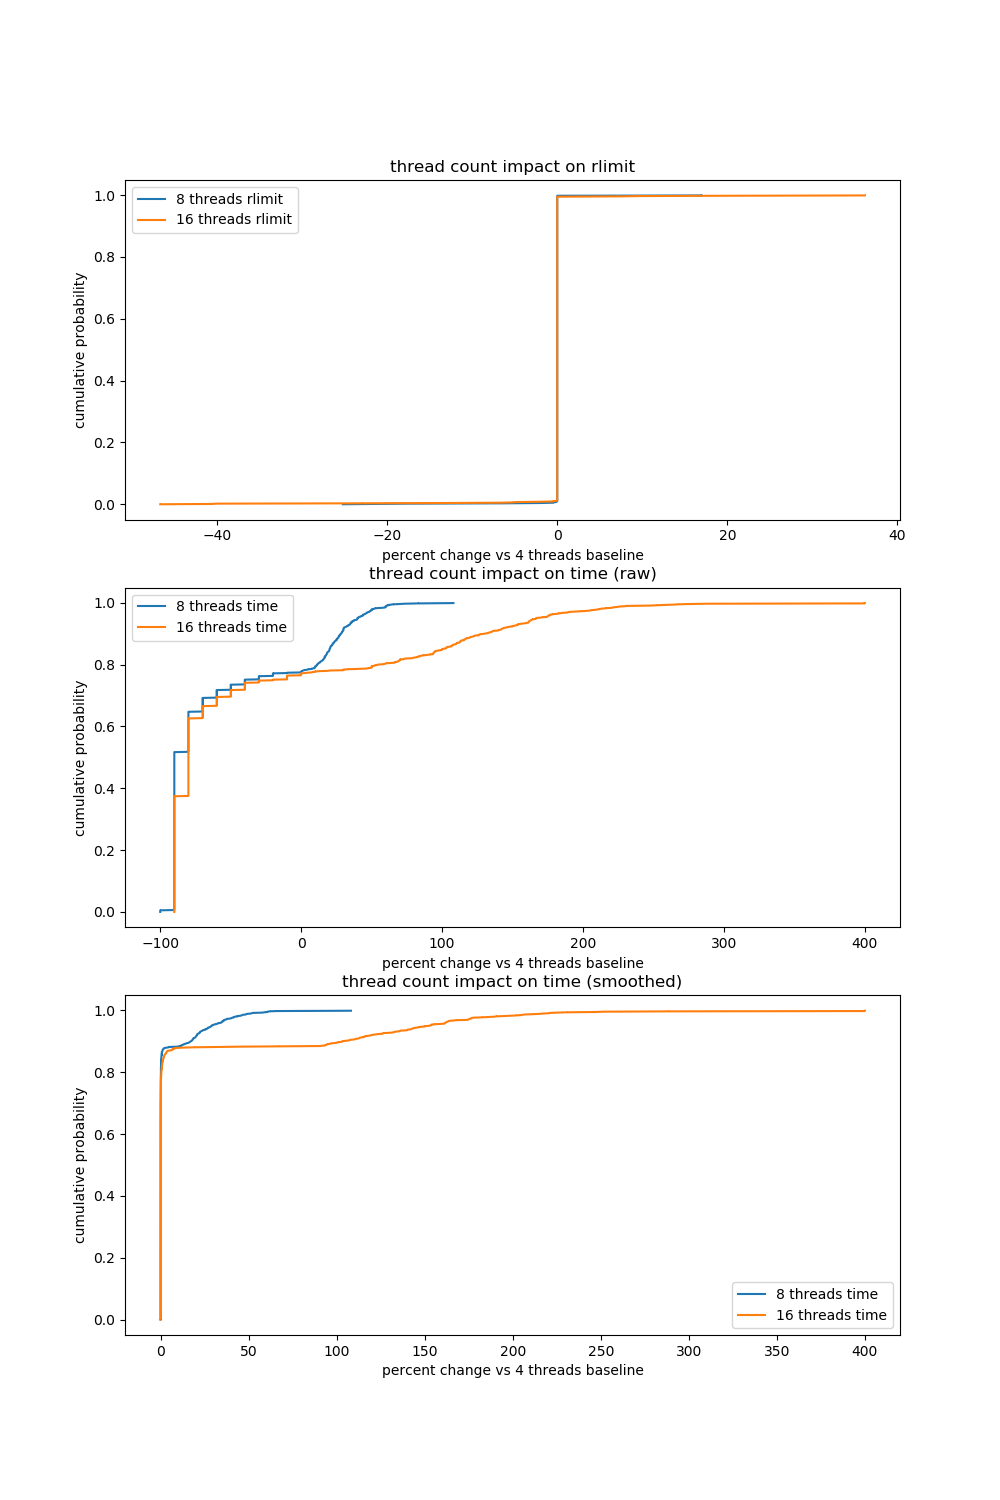
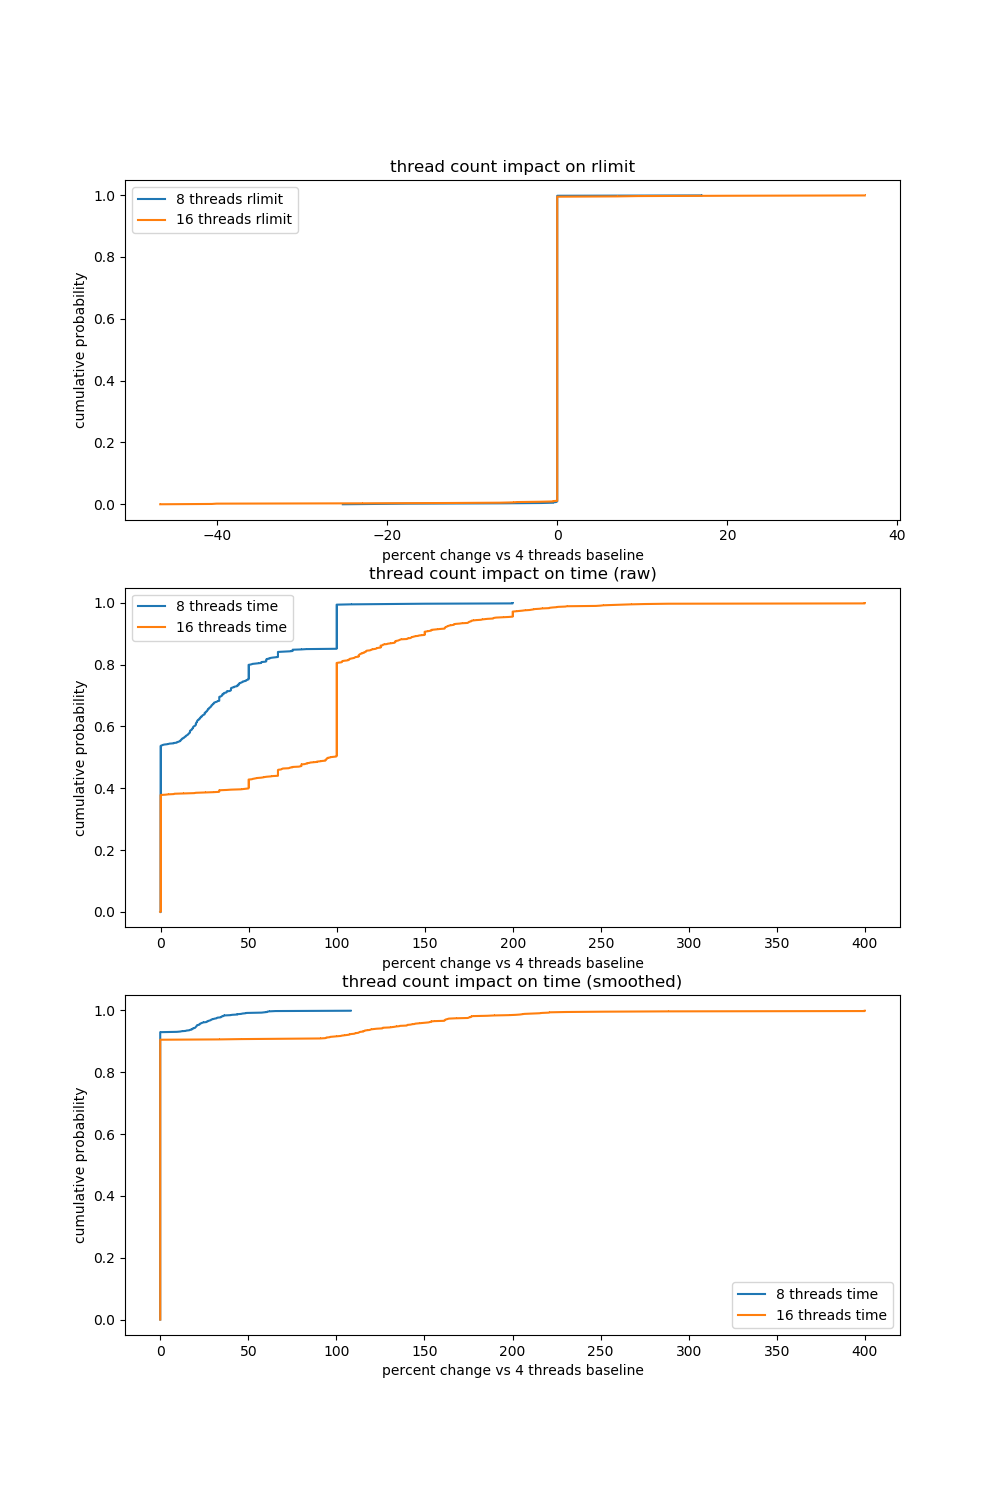
rlimit vs time

diff --git a/scripts/analyze.py b/scripts/analyze.py
@@ -1,4 +1,4 @@
-from tqdm import tqdm
+# from tqdm import tqdm
 from path_utils import *
 from wrap_utils import *
 import math
@@ -6,7 +6,6 @@ import hashlib
 import matplotlib.pyplot as plt
 import numpy as np
 from matplotlib.pyplot import figure
-# import seaborn as sns
 
 def dump_smtlib_plain_status():
     file_paths = list_smt2_files(SMT_ALL_DIR)
@@ -138,90 +137,7 @@ def compute_deviation(r_scores):
 RC_KEY = "rlimit-count"
 TT_KEY = "total-time"
 
-def count_above(l, th):
-    count = 0
-    for i in l:
-        if i > th:
-            count += 1
-    return count
-
-def analyze_pexp_thread_res_raw(query_paths):
-    rc_skipped = 0
-    tt_skipped = 0
-
-    rpcs_8_4 = list()
-    rpcs_16_4 = list()
-
-    tpcs_8_4 = list()
-    tpcs_16_4 = list()
-
-    t4s = list()
-
-    for qp in query_paths:
-        pers4 = load_res_file(qp.plain_exp_res.replace("gen/smtlib/", "gen/smtlib4/"))
-        pers8 = load_res_file(qp.plain_exp_res.replace("gen/smtlib/", "gen/smtlib8/"))
-        pers16 = load_res_file(qp.plain_exp_res.replace("gen/smtlib/", "gen/smtlib16/"))
-
-        if pers4['rcode'] == RCode.Z3_R_TO:
-            rc_skipped += 1
-            tt_skipped += 1
-            continue
-
-        if RC_KEY in pers16 and RC_KEY in pers8 and RC_KEY in pers4:
-            r4 = int(pers4[RC_KEY])
-            r8 = int(pers8[RC_KEY])
-            r16 = int(pers16[RC_KEY])
-
-            rpc_8_4 = percent_change(r8, r4)
-            rpcs_8_4.append(rpc_8_4)
-
-            rpc_16_4 = percent_change(r16, r4)
-            rpcs_16_4.append(rpc_16_4)
-
-        else:
-            rc_skipped += 1
-
-        if TT_KEY in pers16 and TT_KEY in pers8 and TT_KEY in pers4:
-            t4 = float(pers4[TT_KEY])
-            t8 = float(pers8[TT_KEY])
-            t16 = float(pers16[TT_KEY])
-
-            if t4 == 0:
-                t4 = 0.01
-
-            tpc_8_4 = percent_change(t8, t4)
-            tpcs_8_4.append(tpc_8_4)
-
-            tpc_16_4 = percent_change(t16, t4)
-            tpcs_16_4.append(tpc_16_4)
-  
-        else:
-            tt_skipped += 1
-
-    tpcs_16_4 = [400 if i >= 400 else i for i in tpcs_16_4]
-    x1 = np.sort(rpcs_8_4)
-    x2 = np.sort(rpcs_16_4)
-    x3 = np.sort(tpcs_8_4)
-    x4 = np.sort(tpcs_16_4)
-
-    assert len(x1) == len(x3)
-    n = len(x1)
-    y = np.arange(n) / float(n)
-
-    plt.title('thread count impact on time/rlimit')
-    plt.xlabel('raw percent change over 4 threads baseline')
-    plt.ylabel('cumulative probability')
-    
-    plt.plot(x1, y, marker=',', label='8 threads rlimit')
-    plt.plot(x2, y, marker=',', label='16 threads rlimit')
-    plt.plot(x3, y, marker=',', label='8 threads time')
-    plt.plot(x4, y, marker=',', label='16 threads time', color='blue')
-    plt.legend()
-    print(rc_skipped, tt_skipped)
-
-    plt.savefig("fig/percent_change_raw")
-
-def analyze_pexp_thread_res_smoothed(query_paths):
+def analyze_percent_change_thread(query_paths):
     rc_skipped = 0
     tt_skipped = 0
 
@@ -234,9 +150,9 @@ def analyze_pexp_thread_res_smoothed(query_paths):
     raw_tpcs_16_4 = list()
 
     for qp in query_paths:
-        pers4 = load_res_file(qp.plain_exp_res.replace("gen/smtlib/", "gen/smtlib4/"))
-        pers8 = load_res_file(qp.plain_exp_res.replace("gen/smtlib/", "gen/smtlib8/"))
-        pers16 = load_res_file(qp.plain_exp_res.replace("gen/smtlib/", "gen/smtlib16/"))
+        pers4 = load_res_file(qp.plain_exp_res.replace("gen/smtlib/", "gen/old/smtlib4/"))
+        pers8 = load_res_file(qp.plain_exp_res.replace("gen/smtlib/", "gen/old/smtlib8/"))
+        pers16 = load_res_file(qp.plain_exp_res.replace("gen/smtlib/", "gen/old/smtlib16/"))
 
         if pers4['rcode'] == RCode.Z3_R_TO:
             rc_skipped += 1
@@ -257,26 +173,33 @@ def analyze_pexp_thread_res_smoothed(query_paths):
             rc_skipped += 1
 
         if TT_KEY in pers16 and TT_KEY in pers8 and TT_KEY in pers4:
-            t4 = float(pers4[TT_KEY])
-            t8 = float(pers8[TT_KEY])
-            t16 = float(pers16[TT_KEY])
+            t4 = max(float(pers4[TT_KEY]), 0.01)
+            t8 = max(float(pers8[TT_KEY]), 0.01)
+            t16 = max(float(pers16[TT_KEY]), 0.01)
 
-            if t4 < 1:
-                tpcs_8_4.append(abs(t8 - t4) * 100 / 24)
-                tpcs_16_4.append(abs(t16 - t4) * 100 / 24)
+            pc_8_4 = percent_change(t8, t4)
+            pc_16_4 = percent_change(t16, t4)
 
-                raw_tpcs_8_4.append(percent_change(t8, max(t4, 0.1)))
-                raw_tpcs_16_4.append(percent_change(t16, max(t4, 0.1)))
+            if abs(t8 - t4) < 1:
+                tpcs_8_4.append(0)
             else:
-                tpc_8_4 = percent_change(t8, t4)
-                tpcs_8_4.append(tpc_8_4)
-                raw_tpcs_8_4.append(tpc_8_4)
+                tpcs_8_4.append(pc_8_4)
 
-                tpc_16_4 = percent_change(t16, t4)
-                tpcs_16_4.append(tpc_16_4)
-                raw_tpcs_16_4.append(tpc_16_4)
+            if abs(t16 - t4) < 1:
+                tpcs_16_4.append(0)
+            else:
+                tpcs_16_4.append(pc_16_4)
+                if pc_16_4 > 100:
+                    print(qp.orig)
+
+
+            raw_tpcs_8_4.append(pc_8_4)
+            raw_tpcs_16_4.append(pc_16_4)
         else:
             tt_skipped += 1
+
+    print(rc_skipped, len(rpcs_8_4))
+    print(tt_skipped, len(raw_tpcs_8_4))
 
     tpcs_16_4 = [400 if i >= 400 else i for i in tpcs_16_4]
     raw_tpcs_16_4 = [400 if i >= 400 else i for i in raw_tpcs_16_4]
@@ -285,18 +208,21 @@ def analyze_pexp_thread_res_smoothed(query_paths):
     figure.set_figheight(15)
     figure.set_figwidth(10)
 
-    assert len(rpcs_8_4) == len(rpcs_16_4) == len(raw_tpcs_8_4)
+    assert len(rpcs_8_4) == len(rpcs_16_4)
     n = len(rpcs_8_4)
     y = np.arange(n) / float(n)
 
     sp = axis[0]
-
     sp.set_title('thread count impact on rlimit')
     sp.plot(np.sort(rpcs_8_4), y, marker=',', label='8 threads rlimit')
     sp.plot(np.sort(rpcs_16_4), y, marker=',', label='16 threads rlimit')
     sp.set_ylabel("cumulative probability")
     sp.set_xlabel("percent change vs 4 threads baseline")
     sp.legend()
+
+    assert len(raw_tpcs_8_4) == len(tpcs_16_4)
+    n = len(raw_tpcs_8_4)
+    y = np.arange(n) / float(n)
 
     sp = axis[1]
     sp.set_title('thread count impact on time (raw)')
@@ -314,36 +240,65 @@ def analyze_pexp_thread_res_smoothed(query_paths):
     sp.set_xlabel("percent change vs 4 threads baseline")
     sp.legend()
 
-    print(rc_skipped, tt_skipped)
-
     plt.savefig("fig/percent_change")
 
-def analyze_exp_res(query_paths):
-    # plain_exps = {k:0 for k in RCodes}
-    # normalize_exps = {k:0 for k in RCodes}
-    # shuffle_exps = {k:0 for k in RCodes}
+from scipy.stats import gaussian_kde
 
+def analyze_time_rlimit(query_paths):
     skipped = 0
-    bad = 0
+    # np.array()
+    xs = []
+    ys = []
     for qp in query_paths:
+        # pers = load_res_file(qp.plain_exp_res.replace("gen/smtlib/", "gen/old/smtlib10K_rbound/"))
         pers = load_res_file(qp.plain_exp_res)
-        # exps = qp.normalize_exps() + qp.mix_exps() + qp.shuffle_exps()
-        pers8 = load_res_file(qp.plain_exp_res.replace("gen/smtlib/", "gen/smtlib8/"))
-        pers16 = load_res_file(qp.plain_exp_res.replace("gen/smtlib/", "gen/smtlib16/"))
 
-        if "rlimit-count" in pers16 and "rlimit-count" in pers:
-            o = int(pers["rlimit-count"]) 
-            a = int(pers16["rlimit-count"])
-            pc = percent_change(a, o)
-            if pc > 50:
-                print(pc)
-        else:
+        if pers['rcode'] == RCode.Z3_R_TO:
             skipped += 1
+            continue
+        if int(pers[RC_KEY]) > 200000000:
+            skipped += 1
+            continue
+        xs.append(float(pers[TT_KEY]))
+        ys.append(int(pers[RC_KEY]))
+    print(skipped, len(xs))
+    
+    xy = np.vstack([xs,ys])
+
+    fig, ax = plt.subplots()
+    z = gaussian_kde(xy)(xy)
+    ax.scatter(xs, ys, c=z, marker=".")
+    ax.set_title('rlimit and time (30s timeout)')
+    ax.set_ylabel("rlimit")
+    ax.set_xlabel("seconds")
+    plt.savefig("fig/time_rlimit")
+
+# def analyze_exp_res(query_paths):
+#     # plain_exps = {k:0 for k in RCodes}
+#     # normalize_exps = {k:0 for k in RCodes}
+#     # shuffle_exps = {k:0 for k in RCodes}
+
+#     skipped = 0
+#     bad = 0
+#     for qp in query_paths:
+#         pers = load_res_file(qp.plain_exp_res)
+#         # exps = qp.normalize_exps() + qp.mix_exps() + qp.shuffle_exps()
+#         pers8 = load_res_file(qp.plain_exp_res.replace("gen/smtlib/", "gen/smtlib8/"))
+#         pers16 = load_res_file(qp.plain_exp_res.replace("gen/smtlib/", "gen/smtlib16/"))
+
+#         if "rlimit-count" in pers16 and "rlimit-count" in pers:
+#             o = int(pers["rlimit-count"]) 
+#             a = int(pers16["rlimit-count"])
+#             pc = percent_change(a, o)
+#             if pc > 50:
+#                 print(pc)
+#         else:
+#             skipped += 1
 
 
-    print(f"total: {len(query_paths)}")
-    print(f"skipped: {skipped}")
-    print(f"bad: {bad}")
+#     print(f"total: {len(query_paths)}")
+#     print(f"skipped: {skipped}")
+#     print(f"bad: {bad}")
 
     # print_results("plain experiment", plain_exps)
     # print_results("normalize experiment", normalize_exps)
@@ -354,6 +309,9 @@ if __name__ == "__main__":
     # query_paths = load_qlist("data/qlists/smtlib_rand100_sat", "seeds")
     # query_paths = load_qlist("data/qlists/dafny_rand1K", seeds)
     # query_paths = load_qlist("data/qlists/dafny_rand100", seeds)
-    query_paths = load_qlist("data/qlists/smtlib_rand1K_known", seeds)
+    # query_paths = load_qlist("data/qlists/smtlib_rand1K_known", seeds)
+    # analyze_percent_change_thread(query_paths)
+
+    query_paths = load_qlist("data/qlists/smtlib_rand10K_known", seeds)
+    analyze_time_rlimit(query_paths)
     # query_paths = load_qlist("data/qlists/smtlib_rand1K_sat")
-    analyze_pexp_thread_res_smoothed(query_paths)

diff --git a/scripts/wrap_utils.py b/scripts/wrap_utils.py
@@ -4,8 +4,8 @@ import subprocess
 from enum import auto
 from strenum import StrEnum
 
-GLOBAL_RLIMIT = 30000000
-GLOBAL_TIMOUT = 120
+GLOBAL_RLIMIT = 0
+GLOBAL_TIMOUT = 30
 Z3_BIN_PATH = "z3"
 MARIPOSA_BIN_PATH = "./target/release/mariposa"
 
